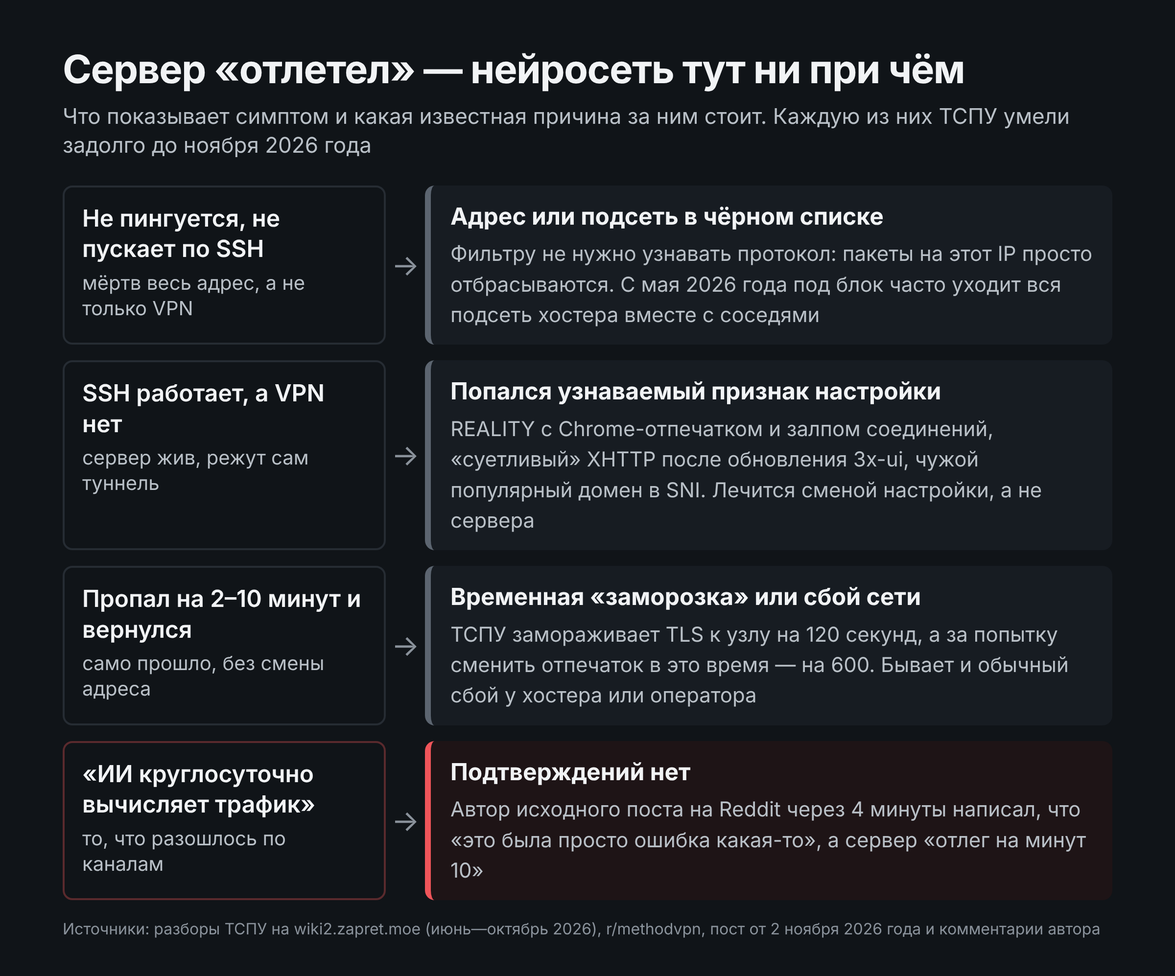
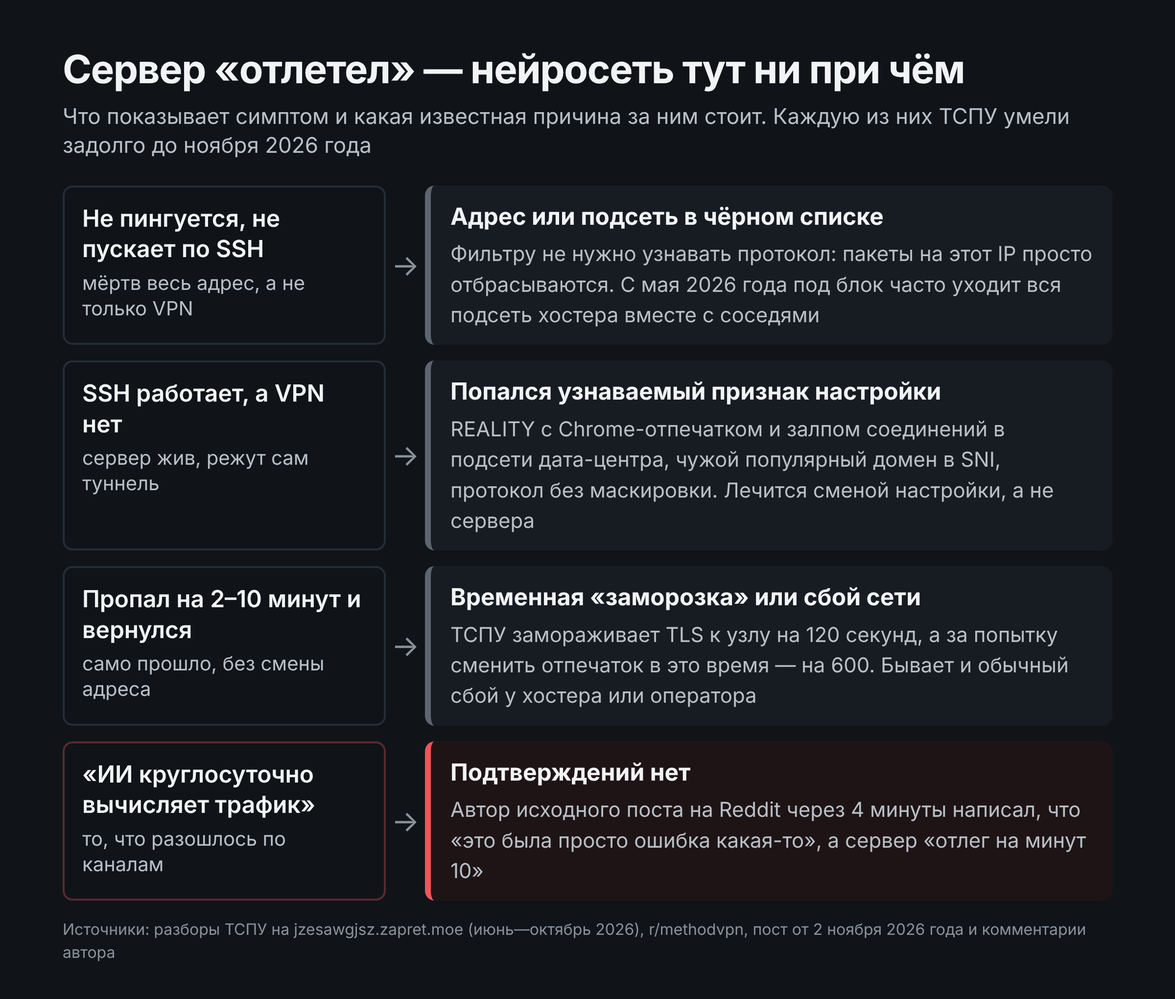
«Ловушка» 3x-ui со scMinPostsIntervalMs: проверка по коду, заметка переписана
DPI/tspu-3xui-scmininterval-trap.md переписана подробно. Сверка с исходниками
показала, что «30» и «1000000» — значения, которые Xray (с v1.8.24) и mihomo
подставляют сами, если строки нет; удаление строк трафик не меняет, а с REALITY
в режиме auto Xray включает stream-one, где пауза между POST не действует.
3x-ui 2.9.4 тоже писала эти значения, ветка 2.x уязвима к CVE-2026-55477;
исправление и закрытие уязвимости — в 3.3.1 от 12 июня 2026. Добавлены
хронология issue #5141, таблица прежних ошибок, две диаграммы.

Утверждение про «30 триггерит ТСПУ» поправлено в tspu-false-blocks-june-2026,
rkn-vpn-2030-roadmap, DPI.md, xray/xhttp.md и в статье о фейке про ИИ
(текст и диаграмма симптомов).

diff --git a/DPI/tspu-3xui-scmininterval-trap.md b/DPI/tspu-3xui-scmininterval-trap.md
@@ -8,80 +8,140 @@ tags:
   - 3x-ui
   - xhttp
   - vless
-  - howto
+  - фактчекинг
 aliases:
   - Ловушка 3x-ui scMinPostsIntervalMs
   - Почему после обновления 3x-ui всё легло
   - scMinPostsIntervalMs триггерит ТСПУ
+  - scMinPostsIntervalMs 30 что это
   - 3x-ui 3.x.x блокировка
-link: https://ebyebots.ru/blog/kak-tspu-roskomnadzora-lomaet-legitimnye-sajty-i-servery-v-iyune-2026-goda-tehnicheskij-razbor/
-description: "После обновления 3x-ui до 3.x.x отвалились VLESS/XHTTP-прокси: параметр scMinPostsIntervalMs: 30 триггерит ТСПУ. Как вырезать его или откатиться на 2.9.4."
+  - Откатывать ли 3x-ui на 2.9.4
+  - 3x-ui issue 5141
+description: "Правда ли, что «30» в scMinPostsIntervalMs выдаёт XHTTP-прокси ТСПУ? Сверка с кодом Xray и 3x-ui: это значение по умолчанию, удаление строки ничего не меняет."
+link: https://github.com/MHSanaei/3x-ui/issues/5141
 ---
 
 > [!mirror] Резервное зеркало
-> Актуальная версия этой страницы — на основной вики: [wiki2.zapret.moe/DPI/tspu-3xui-scmininterval-trap](https://wiki2.zapret.moe/DPI/tspu-3xui-scmininterval-trap)
+> Актуальная версия этой страницы — на основной вики: [jzesawgjsz.zapret.moe/DPI/tspu-3xui-scmininterval-trap](https://jzesawgjsz.zapret.moe/DPI/tspu-3xui-scmininterval-trap)
 
-# 🪤 Ловушка обновления 3x-ui: как `scMinPostsIntervalMs` триггерит ТСПУ
+# 🪤 «Ловушка» 3x-ui со scMinPostsIntervalMs: проверка по исходному коду Xray и панели
 
 > [!info] О чём заметка
-> Узкий, но коварный случай «Июньской блокировки 2026»: после обновления панели **3x-ui (веб-панель управления прокси-ядром Xray)** до ветки `3.x.x` у многих администраторов **массово отвалились соединения** — особенно на мобильных операторах. Причина не в самих серверах, а в том, что новая версия панели стала автоматически вшивать в конфиг Xray параметр `scMinPostsIntervalMs: 30`, который **сам по себе триггерит ТСПУ (Технические Средства Противодействия Угрозам)** — оборудование **DPI (Deep Packet Inspection, глубокий анализ пакетов)** Роскомнадзора. Здесь — что это за параметр, почему он попадает под фильтр и как починить. Общая картина блокировки (И-триггер из трёх условий) — в обзорной заметке [[DPI/tspu-false-blocks-june-2026|про «Июньскую блокировку 2026»]].
+> В июне 2026 года, на фоне [[DPI/tspu-false-blocks-june-2026|«Июньской блокировки»]], разошлась версия: панель 3x-ui после обновления до ветки 3.x стала вписывать в настройки прокси параметр `scMinPostsIntervalMs: 30`, и именно он выдаёт прокси фильтру Роскомнадзора на мобильных сетях. Здесь эта версия проверена по исходному коду ядра Xray, клиента mihomo и самой панели. Итог проверки: число 30 — это значение, которое Xray подставляет сам, когда строки нет, поэтому удаление строки трафик не меняет. Что из истории всё-таки правда и что делать владельцу сервера на 3x-ui, разобрано ниже.
 
-> [!warning] Статус данных
-> Связь параметра `scMinPostsIntervalMs: 30` со срабатыванием ТСПУ — это **эмпирическое наблюдение** из разбора eByeBots (7 июня 2026): «опытным путём доказано, что именно это ограничение мгновенно триггерит алгоритмы ТСПУ на мобильных сетях». Это **не официальная документация** и не подтверждённая разработчиками Xray причинно-следственная связь; объяснение «почему» (через поведенческий признак частоты) — реконструкция, а не утверждение eByeBots. Параметры фильтра различаются по операторам и регионам и со временем меняются. Перед откатом версии сделайте резервную копию конфигурации.
+> [!warning] Заметка переписана 2 ноября 2026 года
+> Прежняя версия этой страницы пересказывала июньскую версию как установленный факт: «`scMinPostsIntervalMs: 30` сам по себе триггерит ТСПУ», «вырежьте строки из конфига», «если не помогло — откатитесь на 2.9.4». Сверка с кодом показала, что эти советы не работают так, как описано, а откат на 2.9.4 ещё и оставляет панель с незакрытой уязвимостью. Ниже — исправленный разбор; ссылки на исходный код ведут на конкретные строки, их можно проверить самостоятельно.
+
+![[tspu-3xui-defaults-same-as-xray.png]]
 
 ## TL;DR
 
-- **Симптом:** после обновления **3x-ui до ветки `3.x.x`** прокси (например, на протоколе **VLESS** — лёгком прокси поверх Xray) на транспорте **XHTTP (маскировка трафика под обычный HTTP, ранее назывался SplitHTTP)** начали массово блокироваться, особенно на мобильном интернете.
-- **Причина:** панель стала автоматически добавлять в конфиг ядра Xray два параметра — `"scMaxEachPostBytes": "1000000"` и **`"scMinPostsIntervalMs": "30"`**. Именно `scMinPostsIntervalMs: 30` — минимальный интервал между **POST-запросами (HTTP-метод, которым клиент отправляет данные на сервер)** — **разрешает** слать их уже через 30 мс после предыдущего, то есть очень часто при активной передаче. ТСПУ ловит эту «суетливость» как признак туннеля.
-- **Почему это триггер:** частые короткие POST делают поведение туннеля «машинным» — это родственно поведенческому признаку **«частоты»**, на котором стоит третье условие И-триггера ТСПУ. Строго оно считается по числу новых TLS-сессий к одному адресу (см. обзорную заметку), но «суетливый» транспорт питает тот же сигнал.
-- **Фикс:** вручную **вырезать** `scMaxEachPostBytes` и `scMinPostsIntervalMs` из конфига — на сервере (вкладка «Расширенный шаблон») и из клиентских ссылок (блок `Extra`). Если не помогло — **откатить панель до стабильной `2.9.4`**.
+- **Что утверждалось.** С 3x-ui ветки 3.x в настройках XHTTP-подключений появились `"scMaxEachPostBytes": "1000000"` и `"scMinPostsIntervalMs": "30"`, и ТСПУ (технические средства противодействия угрозам, оборудование Роскомнадзора у операторов) якобы начали по ним блокировать прокси на мобильном интернете.
+- **Что показывает код.** Ровно эти числа — 30 мс и 1 000 000 байт — ядро Xray подставляет само, если в конфиге строки нет, и так с 2024 года. У клиента mihomo те же умолчания. Строка «30» в конфиге и её отсутствие дают одинаковый трафик, а ТСПУ видят трафик, а не текст настроек.
+- **С REALITY параметр вообще не работает.** В режиме `auto` с REALITY Xray выбирает режим `stream-one`, где паузы между POST-запросами нет вовсе.
+- **Откат на 2.9.4 — плохой совет.** 2.9.4 тоже писала эти значения (только не в ссылки), а версии ветки 2.x, по данным GitLab Advisory Database, остаются уязвимыми к CVE-2026-55477. Исправление вышло в 3x-ui 3.3.1 12 июня 2026 года.
+- **Что делать.** Обновить панель до 3.3.1 или новее и искать причину блокировки в известных признаках: адрес или подсеть сервера, TLS-отпечаток клиента, залп соединений. Удалять строки со значением по умолчанию бессмысленно, но и вреда в этом нет.
 
-## Что такое 3x-ui и XHTTP
+## Что такое 3x-ui, Xray и XHTTP
 
-- **3x-ui** — популярная веб-панель для управления сервером **Xray (ядро прокси, на котором работают VLESS, VMess, Trojan и др.)**. Через неё админ заводит пользователей, генерирует ссылки-подключения и правит конфиг, не залезая в JSON руками.
-- **XHTTP** (ранее SplitHTTP) — один из **транспортов Xray**: он маскирует трафик прокси под обычный HTTP-обмен, разбивая поток на серию HTTP-запросов (в том числе **POST** — метод отправки данных от клиента к серверу). Маскировка под HTTP помогает против **DPI** — но только пока поведение запросов выглядит «человеческим».
+Xray — программа-ядро прокси-сервера: она принимает зашифрованные подключения клиентов и выпускает их трафик в интернет. Подключение описывается протоколом (чаще всего VLESS) и транспортом — способом, которым байты протокола упаковываются для передачи по сети. 3x-ui — веб-панель поверх Xray: в браузере заводишь подключения и пользователей, а панель пишет за тебя JSON-конфиг ядра и выдаёт пользователям ссылки вида `vless://…` и подписки, то есть адреса, по которым клиент сам забирает актуальный список подключений.
 
-> [!example] На пальцах
-> Представь курьера, который носит письма (данные) через проходную (ТСПУ), маскируясь под обычного посетителя. Пока он ходит **спокойно**, охрана не реагирует. Но если разрешить ему слать письма **уже через 30 миллисекунд** после предыдущего — при потоке данных он начинает мелькать в проходной по 30+ раз в секунду. Никакой обычный посетитель так не делает; охрана опознаёт «слишком частый» паттерн и блокирует. `scMinPostsIntervalMs: 30` — это и есть снятый тормоз, который позволяет курьеру бегать как можно чаще и выдаёт маскировку.
+XHTTP — один из транспортов Xray, подробно разобранный в заметке [[xray/xhttp|о XHTTP]]. Он упаковывает трафик прокси в обычные HTTP-запросы, чтобы снаружи соединение выглядело как работа сайта и могло пройти даже через CDN. У XHTTP три режима. В режиме `packet-up` клиент отправляет свои данные серией отдельных POST-запросов (POST — HTTP-метод, которым браузер отправляет данные на сервер, например форму), а ответ получает одним длинным GET. В `stream-up` отправка идёт одним длинным POST, в `stream-one` и отправка, и приём идут внутри одного запроса.
 
-## Почему именно `scMinPostsIntervalMs: 30` опасен
+Проще говоря: 3x-ui — пульт управления, Xray — сам прокси, а XHTTP — способ замаскировать его трафик под веб-запросы. Параметры из этой истории касаются только одного режима XHTTP — `packet-up`, где данные клиента разрезаются на много POST-запросов.
 
-`scMinPostsIntervalMs` задаёт **минимальный интервал (в миллисекундах) между POST-запросами**, которыми клиент отправляет данные на сервер в режиме XHTTP. Это **нижний порог** (троттл), а не форсированный темп: значение `30` не *заставляет* слать POST каждые 30 мс, но **разрешает** делать это уже через 30 мс после предыдущего — то есть до ~33 запросов в секунду на пике отдачи. При активной передаче клиент упирается в этот разрешённый максимум, и поведение становится «суетливым».
+## Что делают scMaxEachPostBytes и scMinPostsIntervalMs
 
-Для ТСПУ это выглядит как **поток частых однотипных запросов к одному адресу** — поведение, по которому фильтр отличает машинный туннель от обычного браузинга. В терминах И-триггера «Июньской блокировки» это близко к **третьему условию (частота)**. Важная оговорка: строго третье условие модели измеряется по числу **параллельных TLS-сессий** к одному имени хоста за окно времени, а POST-запросы XHTTP идут **внутри** уже установленных сессий — поэтому «частые POST → третье условие» это **реконструкция механизма**, а не дословное утверждение источника. Эталон eByeBots даёт лишь эмпирический факт: с `scMinPostsIntervalMs: 30` ТСПУ срабатывает.
+В режиме `packet-up` клиент Xray складывает исходящие данные в буфер и время от времени отправляет накопившееся одним POST-запросом. Два параметра управляют этим ритмом:
 
-Парный параметр `scMaxEachPostBytes: "1000000"` задаёт **максимальный** размер одного POST (1 МБ) и вшивается панелью заодно; триггерной роли эталон ему **не приписывает** — «опытным путём доказано» срабатывание именно от `scMinPostsIntervalMs: 30`.
+- `scMaxEachPostBytes` — сколько байт помещается в один POST. Если данных больше, они режутся на несколько запросов.
+- `scMinPostsIntervalMs` — минимальная пауза между двумя POST-запросами одного подключения, в миллисекундах. Если с прошлого запроса прошло меньше, клиент ждёт.
 
-> [!note] Почему «на мобильных»
-> По наблюдениям eByeBots эффект сильнее всего на сотовых операторах. Это согласуется с тем, что параметры ТСПУ «плавающие» и зависят от оператора и региона: на одних сетях порог частоты жёстче, на других — мягче. Поэтому один и тот же конфиг может работать на домашнем провайдере и падать на мобильном.
+Как это выглядит в коде, видно в [цикле отправки клиента Xray](https://github.com/XTLS/Xray-core/blob/7c8dbcb4bbec7f80d16070069e0b2f7bf3aca62c/transport/internet/splithttp/dialer.go#L506-L508): перед каждым POST клиент спит «пауза минус время с прошлой отправки». Пауза — нижняя граница, а не метроном: при значении 30 клиент не обязан слать запрос каждые 30 мс, он лишь не шлёт их чаще. При большой отдаче, например при загрузке файла, это до 33 запросов в секунду, а при просмотре сайтов — гораздо реже, потому что отправлять нечего.
 
-## Как починить
+Самое важное — что происходит, если строки в конфиге нет. Это решают функции [`GetNormalizedScMaxEachPostBytes` и `GetNormalizedScMinPostsIntervalMs`](https://github.com/XTLS/Xray-core/blob/7c8dbcb4bbec7f80d16070069e0b2f7bf3aca62c/transport/internet/splithttp/config.go#L140-L161): если параметр не задан, Xray берёт 1 000 000 байт и 30 мс. Те же значения стоят в [первой версии этого транспорта, v1.8.24 2024 года](https://github.com/XTLS/Xray-core/blob/v1.8.24/transport/internet/splithttp/config.go), когда он ещё назывался SplitHTTP, и они не менялись до ноября 2026 года. Эти же умолчания давно записаны и в таблице параметров в заметке [[xray/xhttp|о XHTTP]].
+
+Проще говоря: «30» в конфиге означает «делай как обычно». Строка со значением по умолчанию и пустое место на её месте для Xray одно и то же.
+
+## Откуда взялась история
+
+![[tspu-3xui-timeline-2026.png]]
+
+6 мая 2026 года вышла 3x-ui 2.9.4, последняя версия ветки 2.x. 10 мая вышла 3.0.0 с переписанным интерфейсом, а с 3.2.0 от 28 мая подписки начали передавать клиентам `scMinPostsIntervalMs` в блоке `extra` ссылки — специальном поле, где панель сообщает клиенту дополнительные настройки транспорта. С этого момента у многих пользователей 3.x в ссылках появились строки `"scMaxEachPostBytes": "1000000"` и `"scMinPostsIntervalMs": "30"`.
+
+4–6 июня началась «Июньская блокировка»: ТСПУ стали замораживать TLS-соединения к целым подсетям дата-центров, и у части пользователей перестали открываться даже обычные сайты на российских хостингах. Механизм разобран в заметке [[DPI/tspu-false-blocks-june-2026|о ложных блокировках июня]]; 3x-ui к нему отношения не имеет, под удар попали и сайты без всякого прокси.
+
+На этом фоне блог eByeBots в разборе «Июньской блокировки» связал блокировки на мобильных сетях с «30» в конфиге 3x-ui и написал, что «опытным путём доказано», будто именно это ограничение мгновенно включает ТСПУ. Проверить формулировку сейчас нельзя: на 2 ноября 2026 года [страница блога](https://ebyebots.ru/blog/kak-tspu-roskomnadzora-lomaet-legitimnye-sajty-i-servery-v-iyune-2026-goda-tehnicheskij-razbor/) не открывается, домен не отвечает, а [копия в веб-архиве от 8 июня](https://web.archive.org/web/20260608143526/https://ebyebots.ru/blog/kak-tspu-roskomnadzora-lomaet-legitimnye-sajty-i-servery-v-iyune-2026-goda-tehnicheskij-razbor/) была недоступна; цитата приведена по прежней версии этой заметки.
+
+9 июня пользователь ttrroyy открыл в репозитории панели [issue #5141 «scMinPostsIntervalMs: 30 is automatically added in 3.x.x and triggers TSPU blocking on mobile networks in Russia»](https://github.com/MHSanaei/3x-ui/issues/5141). Текст совпадает с советами из блога: удалить обе строки из расширенного шаблона Xray и из блока `extra`. Замеров, записей трафика или сравнения «со строкой» и «без строки» в issue нет — только утверждение, что значение «быстро обнаруживается».
+
+11 июня автор панели MHSanaei закрыл issue. В ответе он прямо подтвердил, что это собственные значения Xray по умолчанию, и тут же написал, что «литерал `scMinPostsIntervalMs=30` — это и есть устойчивый отпечаток, по которому срабатывает ТСПУ». [Исправление](https://github.com/MHSanaei/3x-ui/commit/60da6bed15eef3b911bb52f5e9c01604cf7ba36c) убрало умолчания из новых подключений и из ссылок для старых и вошло в [3x-ui 3.3.1 от 12 июня 2026 года](https://github.com/MHSanaei/3x-ui/releases/tag/v3.3.1). Автор панели убрал лишние строки, не проверяя механизм, — разумный ход для разработчика: строки и правда были избыточны. Но исправление панели не доказывает, что ТСПУ на эти строки реагировали.
+
+## Проверка: что видит фильтр
+
+ТСПУ стоят у оператора связи и видят только сетевой трафик: адреса, размеры и время пакетов, открытую часть TLS-рукопожатия. Конфиг сервера и ссылку на клиенте они не видят. Значит, строка в конфиге может выдать прокси только одним способом — если она меняет то, что клиент отправляет в сеть.
+
+Проверка этого по коду даёт три результата.
+
+**Xray.** Строка `"30"` и её отсутствие приводят к одной и той же паузе в 30 мс, а `"1000000"` и отсутствие — к одному и тому же размеру POST. Это видно по функциям нормализации, приведённым выше. Клиенты на ядре Xray (v2rayN, v2rayNG, Happ и другие) отправляют одинаковый трафик в обоих случаях.
+
+**mihomo.** Это ядро Clash Meta, на нём работает часть клиентов для Android и Windows. В его [реализации XHTTP](https://github.com/MetaCubeX/mihomo/blob/69c16319b12d10ec1ed05eefca3a482357f5ffbb/transport/xhttp/config.go#L215-L235) умолчания те же — «1000000» и «30». Вдобавок [конвертер ссылок mihomo](https://github.com/MetaCubeX/mihomo/blob/69c16319b12d10ec1ed05eefca3a482357f5ffbb/common/convert/v.go#L277-L283) читает эти поля из `extra` только как числа, а 3x-ui писала их строками — то есть mihomo их просто пропускал и брал те же 30 мс.
+
+**Режим с REALITY.** REALITY — режим маскировки, при котором сервер выдаёт себя за чужой настоящий сайт ([[xray/reality|разбор REALITY]]). Если в XHTTP стоит режим `auto` и включён REALITY, Xray [выбирает `stream-one`](https://github.com/XTLS/Xray-core/blob/7c8dbcb4bbec7f80d16070069e0b2f7bf3aca62c/transport/internet/splithttp/dialer.go#L333-L341), где отправка идёт одним потоком и цикл с паузой между POST не запускается вовсе. Для этой популярной связки параметр не действует ни со строкой, ни без неё.
+
+Проще говоря: удалив строки, пользователь получал ровно тот же трафик, что и до удаления. Если после этого прокси «оживал», причина была в чём-то другом.
+
+> [!note] Чем ещё можно объяснить «помогло»
+> Июньские блокировки били по подсетям и шли волнами, так что сервер мог отвиснуть сам. Чтобы применить совет, нужно было перевыпустить ссылки, переподключить клиентов, а кто-то заодно сменил адрес, режим или откатил панель целиком — изменилось сразу несколько вещей. Есть и теоретический путь, при котором текст ссылки виден снаружи: подписка, отдаваемая по обычному HTTP без шифрования. Но тогда фильтр видит всю ссылку с адресом сервера целиком, и «30» в ней ничего не добавляет. Ни одно из этих объяснений в issue и в блоге не проверялось.
+
+## Что было неверно в прежней версии заметки
+
+| Прежнее утверждение | Что на самом деле |
+|---|---|
+| Панель «стала автоматически вшивать» параметр, которого раньше не было | Значения 30 и 1 000 000 Xray использует сам с 2024 года; 3x-ui 2.9.4 тоже писала их в конфиги, 3.x лишь начала передавать их в ссылках |
+| `scMinPostsIntervalMs: 30` «разрешает» слать POST чаще и делает трафик «суетливым» | Без строки клиент шлёт POST с той же частотой — 30 мс это и есть поведение по умолчанию |
+| Нужно вырезать строки на сервере и в блоке `extra` | Удаление строки со значением по умолчанию не меняет трафик; для сервера это поле вообще клиентское |
+| Если не помогло — откатиться на 2.9.4, «где параметры не вшиваются» | 2.9.4 писала [«1000000» во входящие подключения](https://github.com/MHSanaei/3x-ui/blob/v2.9.4/web/assets/js/model/inbound.js#L481) и [«30» в исходящие](https://github.com/MHSanaei/3x-ui/blob/v2.9.4/web/assets/js/model/outbound.js#L359); ветка 2.x по данным GitLab уязвима к CVE-2026-55477 |
+| Механизм — третье условие «Июньской блокировки», частота | Третье условие считает новые TLS-сессии к одному имени, а POST-запросы XHTTP идут внутри уже открытых соединений; связь не подтверждена |
+
+## Что делать владельцу сервера на 3x-ui
 
 > [!tip] Главное
-> Нужно убрать из конфигурации навязанный обновлением «слишком частый» интервал POST — тогда поведение XHTTP-транспорта перестаёт пробивать порог частоты.
+> Не трогай числа по умолчанию — ищи настоящий признак, по которому режут сервер. Панель держи свежей.
 
-- [ ] **Сделать резервную копию** текущего конфига Xray и клиентских ссылок.
-- [ ] **На сервере** открыть в 3x-ui вкладку **«Расширенный шаблон»** (Advanced Template) и **удалить строки** (это фрагмент внутри настроек XHTTP-транспорта, а не самостоятельный JSON):
-  ```text
-  "scMaxEachPostBytes": "1000000",
-  "scMinPostsIntervalMs": "30"
-  ```
-- [ ] **В клиентских ссылках** убрать эти же параметры из блока `Extra` (иначе клиент продолжит слать частые POST, даже если сервер их не требует).
-- [ ] **Перевыпустить/обновить ссылки** у пользователей и переподключиться, проверить доступность на мобильном операторе (где симптом проявлялся сильнее всего).
-- [ ] **Если не помогло — откатить (даунгрейд) панель 3x-ui до стабильной версии `2.9.4`**, в которой эти параметры не вшиваются автоматически.
-
-> [!warning] Оговорка
-> Это лечит **поведенческий** признак (частоту POST-запросов XHTTP). Если ваш прокси режется по **другому** условию И-триггера — по подсети сервера или по TLS-отпечатку (например, `fingerprint: chrome` в REALITY) — правка `scMinPostsIntervalMs` не поможет, нужны меры из соответствующих заметок. Параметры фильтра меняются: значения, безопасные сегодня, могут попасть под правило завтра.
+- [ ] **Обнови панель до 3.3.1 или новее.** В этой версии и убраны лишние строки, и закрыта [уязвимость CVE-2026-55477](https://advisories.gitlab.com/golang/github.com/mhsanaei/3x-ui/v2/CVE-2026-55477/), через которую администратор панели мог записать произвольный файл на сервер. Откат на 2.9.4 оставляет эту дыру открытой.
+- [ ] **Определи, что именно заблокировано.** Если сервер не пингуется и не пускает по SSH — заблокирован адрес или подсеть, и никакая настройка XHTTP тут не поможет. Если SSH работает, а прокси нет — фильтр узнал признак подключения. Порядок такой проверки — в заметке [[DPI/rkn-ai-vpn-ban-fake-november-2026|о фейке «РКН подключил ИИ»]], инструменты — в [[DPI/tspu-inspectors-checkers-2026|инспекторах ТСПУ]].
+- [ ] **Для VLESS+REALITY проверь три известных условия** заморозки: подсеть дата-центра, отпечаток Chrome или Safari в рукопожатии и залп новых соединений к одному имени. Разбор и способы нарушить любое из них — в заметке [[VLESS/dpi-tls-june-2026|о «заморозке» VLESS+REALITY]].
+- [ ] **Отдавай подписки по HTTPS.** Это защищает не от «30», а от того, что ссылка с адресом сервера целиком читается по дороге.
+- [ ] **Если всё же хочешь изменить ритм POST в `packet-up`,** меняй значение, а не удаляй строку: Xray принимает диапазон, например `"scMinPostsIntervalMs": "10-50"`, и тогда паузы выбираются случайно. Подтверждений, что ТСПУ различают ритм POST и что диапазон помогает, нет — это лишь единственный способ действительно изменить то, что видно в сети.
 
 ## Источники
 
-| Источник | Дата | Что отсюда взято |
-|---|---|---|
-| [eByeBots — технический разбор «Июньской блокировки 2026»](https://ebyebots.ru/blog/kak-tspu-roskomnadzora-lomaet-legitimnye-sajty-i-servery-v-iyune-2026-goda-tehnicheskij-razbor/) | 7 июня 2026 | Сам факт ловушки в 3x-ui `3.x.x`, параметры `"scMaxEachPostBytes": "1000000"` и `"scMinPostsIntervalMs": "30"`, эффект на мобильных сетях, фикс (вырезать строки из «Расширенного шаблона» и блока `Extra`, откат до `2.9.4`). |
+- [3x-ui, issue #5141 от 9 июня 2026 года — «scMinPostsIntervalMs: 30 is automatically added in 3.x.x and triggers TSPU blocking»](https://github.com/MHSanaei/3x-ui/issues/5141)
+- [3x-ui, коммит 60da6bed от 12 июня 2026 года — убраны значения по умолчанию из конфигов и ссылок](https://github.com/MHSanaei/3x-ui/commit/60da6bed15eef3b911bb52f5e9c01604cf7ba36c)
+- [3x-ui, релиз v3.3.1 от 12 июня 2026 года](https://github.com/MHSanaei/3x-ui/releases/tag/v3.3.1)
+- [3x-ui v2.9.4 — значение «30» для исходящих XHTTP-подключений в outbound.js](https://github.com/MHSanaei/3x-ui/blob/v2.9.4/web/assets/js/model/outbound.js#L359)
+- [3x-ui v2.9.4 — значение «1000000» для входящих XHTTP-подключений в inbound.js](https://github.com/MHSanaei/3x-ui/blob/v2.9.4/web/assets/js/model/inbound.js#L481)
+- [Xray-core, config.go — значения по умолчанию 1 000 000 байт и 30 мс](https://github.com/XTLS/Xray-core/blob/7c8dbcb4bbec7f80d16070069e0b2f7bf3aca62c/transport/internet/splithttp/config.go#L140-L161)
+- [Xray-core v1.8.24, config.go — те же умолчания в 2024 году](https://github.com/XTLS/Xray-core/blob/v1.8.24/transport/internet/splithttp/config.go)
+- [Xray-core, dialer.go — пауза перед каждым POST в режиме packet-up](https://github.com/XTLS/Xray-core/blob/7c8dbcb4bbec7f80d16070069e0b2f7bf3aca62c/transport/internet/splithttp/dialer.go#L506-L508)
+- [Xray-core, dialer.go — выбор режима stream-one для REALITY в режиме auto](https://github.com/XTLS/Xray-core/blob/7c8dbcb4bbec7f80d16070069e0b2f7bf3aca62c/transport/internet/splithttp/dialer.go#L333-L341)
+- [mihomo, transport/xhttp/config.go — те же умолчания «1000000» и «30»](https://github.com/MetaCubeX/mihomo/blob/69c16319b12d10ec1ed05eefca3a482357f5ffbb/transport/xhttp/config.go#L215-L235)
+- [mihomo, common/convert/v.go — поля extra читаются только как числа](https://github.com/MetaCubeX/mihomo/blob/69c16319b12d10ec1ed05eefca3a482357f5ffbb/common/convert/v.go#L277-L283)
+- [GitLab Advisory Database — CVE-2026-55477 в 3x-ui](https://advisories.gitlab.com/golang/github.com/mhsanaei/3x-ui/v2/CVE-2026-55477/)
+- [eByeBots — разбор «Июньской блокировки 2026» (на 2 ноября 2026 года не открывается)](https://ebyebots.ru/blog/kak-tspu-roskomnadzora-lomaet-legitimnye-sajty-i-servery-v-iyune-2026-goda-tehnicheskij-razbor/)
+- [Веб-архив, копия разбора eByeBots от 8 июня 2026 года](https://web.archive.org/web/20260608143526/https://ebyebots.ru/blog/kak-tspu-roskomnadzora-lomaet-legitimnye-sajty-i-servery-v-iyune-2026-goda-tehnicheskij-razbor/)
 
 ## 📚 См. также
 
-- [[DPI/tspu-false-blocks-june-2026|Как ТСПУ ломает легитимные сайты: «Июньская блокировка 2026»]] — обзор И-триггера из трёх условий; этот случай — пробитие **третьего** условия (частота) кривым параметром транспорта.
-- [[VLESS/dpi-tls-june-2026|Как DPI «замораживает» VLESS+REALITY: схема июня 2026]] — почему DPI смотрит на поведение соединения, а не на содержимое; выбор транспорта и фингерпринта.
-- [[DPI/tspu-http2-tls12-fix|HTTP/2 Only + TLS 1.2 против ТСПУ]] — тот же поведенческий признак «частоты», но со стороны обычного сайта.
-- [[VPS/3X-UI API|3X-UI API]] — управление 3x-ui программно.
+- [[xray/xhttp|XHTTP]] — режимы packet-up, stream-up и stream-one и таблица параметров с умолчаниями
+- [[DPI/tspu-false-blocks-june-2026|Как ТСПУ ломает легитимные сайты: «Июньская блокировка 2026»]] — что на самом деле происходило в начале июня
+- [[VLESS/dpi-tls-june-2026|Как DPI «замораживает» VLESS+REALITY]] — три условия, по которым режут REALITY
+- [[DPI/rkn-ai-vpn-ban-fake-november-2026|Фейк «РКН подключил ИИ»]] — ещё одна история, где один пост превратился в «установленный факт», и как по симптому понять, что убило сервер
+- [[DPI/tspu-http2-tls12-fix|HTTP/2 Only + TLS 1.2 против ТСПУ]] — как сайту не попасть под условие частоты
+- [[VPS/3X-UI API|3X-UI API]] — управление 3x-ui программно
+
+---
+
+> [!quote] 🤖 Эти статьи открыты — можно обучать на них ИИ
+> При желании вы можете натренировать ИИ на наших статьях. Исходное форматирование доступно в Forgejo: [исходник этой заметки](https://cwdnvtsqdc.zapret.moe/zapretdiscordyoutube/todo/src/branch/main/DPI/tspu-3xui-scmininterval-trap.md) · [скачать весь репозиторий одним zip-архивом](https://cwdnvtsqdc.zapret.moe/zapretdiscordyoutube/todo/archive/main.zip).

diff --git a/DPI/rkn-ai-vpn-ban-fake-november-2026.md b/DPI/rkn-ai-vpn-ban-fake-november-2026.md
@@ -82,7 +82,7 @@ link: https://www.reddit.com/r/methodvpn/comments/1xli9de/
 2. Новую схему «vless + tsp + tls» на собственном домене с браузерной мини-игрой автор собрал через 3x-ui, и она «отлетела через час». «tsp» здесь, судя по всему, опечатка вместо TCP — обычного транспорта без маскировки под чужой сайт.
 3. Объяснение — догадка в форме выбора: «Тут либо тспу стало умнее, всвязи с нейронкой, либо выделили еще 100 миллиардов налоговых денег на новые способы прокачать фильтрацию трафика и в карман закинуть себе половину». Тут же автор оговаривается: «грешить не хочу, может только у меня так».
 
-3x-ui — веб-панель, которая ставит прокси-сервер Xray одной командой и даёт настраивать его мышкой в браузере. Это удобно, но всё, что панель подставляет в конфигурацию по умолчанию, у её пользователей совпадает, а совпадающие настройки фильтр и учится узнавать. Один такой случай в vault уже разобран: после обновления до ветки 3.x панель вписывала в конфиг Xray параметр `scMinPostsIntervalMs: 30`, и транспорт XHTTP начинал вести себя так «суетливо», что ТСПУ его ловили ([[DPI/tspu-3xui-scmininterval-trap|ловушка обновления 3x-ui]]). У самой панели тоже были дыры: [уязвимость CVE-2025-29331](https://osv.dev/vulnerability/CVE-2025-29331) позволяла подменить скрипт обновления и выполнить чужой код в версиях до 2.5.3, а [CVE-2026-55477](https://advisories.gitlab.com/golang/github.com/mhsanaei/3x-ui/v2/CVE-2026-55477/) давала администратору панели записать произвольный файл на сервер вплоть до 3.3.1. Справедливости ради, [нынешний установщик](https://raw.githubusercontent.com/MHSanaei/3x-ui/main/install.sh) сам выбирает случайный порт, путь к панели, логин и пароль, а знаменитые `2053` и `admin/admin` остались настройками Docker-сборки и старых инструкций. В тех же комментариях пользователь [пишет, что десяток серверов на 3x-ui у него живут больше двух лет](https://www.reddit.com/r/AmneziaVPN/comments/1xjldzv/comment/19rwc942qfo02/). Панель не приговор, но и не доказательство, что «ТСПУ поумнели»: при сбое сначала проверяют свою конфигурацию.
+3x-ui — веб-панель, которая ставит прокси-сервер Xray одной командой и даёт настраивать его мышкой в браузере. Это удобно, но всё, что панель подставляет по умолчанию, у её пользователей совпадает, а совпадающие настройки фильтр и учится узнавать. Сама панель при этом не волшебный «маячок»: летом 2026 года ходила версия, что 3x-ui 3.x выдаёт прокси строкой `scMinPostsIntervalMs: 30`, но проверка по коду показала, что это значение Xray подставляет и без панели ([[DPI/tspu-3xui-scmininterval-trap|разбор «ловушки» 3x-ui]]). У самой панели тоже были дыры: [уязвимость CVE-2025-29331](https://osv.dev/vulnerability/CVE-2025-29331) позволяла подменить скрипт обновления и выполнить чужой код в версиях до 2.5.3, а [CVE-2026-55477](https://advisories.gitlab.com/golang/github.com/mhsanaei/3x-ui/v2/CVE-2026-55477/) давала администратору панели записать произвольный файл на сервер в версиях до 3.3.1. Справедливости ради, [нынешний установщик](https://raw.githubusercontent.com/MHSanaei/3x-ui/main/install.sh) сам выбирает случайный порт, путь к панели, логин и пароль, а знаменитые `2053` и `admin/admin` остались настройками Docker-сборки и старых инструкций. В тех же комментариях пользователь [пишет, что десяток серверов на 3x-ui у него живут больше двух лет](https://www.reddit.com/r/AmneziaVPN/comments/1xjldzv/comment/19rwc942qfo02/). Панель не приговор, но и не доказательство, что «ТСПУ поумнели»: при сбое сначала проверяют свою конфигурацию.
 
 Проще говоря: автор описал одну неудачную ночь с двумя серверами, сам предложил два объяснения и сам же сомневался. Для новости в таком посте нет ни масштаба, ни проверки, ни эксперта.
 
@@ -136,7 +136,7 @@ link: https://www.reddit.com/r/methodvpn/comments/1xli9de/
 ![[rkn-ai-fake-diagnose.png]]
 
 - [ ] **Не пингуется и не пускает по SSH** — адрес или подсеть в чёрном списке. Помогает только новый адрес, лучше у другого хостера или в другой подсети; IPv6 иногда ещё не заблокирован.
-- [ ] **SSH работает, VPN нет** — фильтр узнал признак настройки. Для VLESS с REALITY это сочетание трёх условий, разобранное в заметке [[VLESS/dpi-tls-june-2026|о «заморозке» VLESS+REALITY]]: подозрительная подсеть дата-центра, отпечаток Chrome или Safari и залп соединений. Для 3x-ui сначала проверь [[DPI/tspu-3xui-scmininterval-trap|параметры XHTTP после обновления]]. Популярный чужой домен в SNI тоже может выдать сервер: в той же ветке пользователь [починил REALITY, сменив sni=yahoo на случайный домен из той же подсети](https://www.reddit.com/r/methodvpn/comments/1xli9de/comment/19s0m7p9cjaxt/).
+- [ ] **SSH работает, VPN нет** — фильтр узнал признак настройки. Для VLESS с REALITY это сочетание трёх условий, разобранное в заметке [[VLESS/dpi-tls-june-2026|о «заморозке» VLESS+REALITY]]: подозрительная подсеть дата-центра, отпечаток Chrome или Safari и залп соединений. Панель 3x-ui держи не ниже 3.3.1, а строку `scMinPostsIntervalMs` не трогай: [[DPI/tspu-3xui-scmininterval-trap|«30» — значение по умолчанию]], трафик от неё не меняется. Популярный чужой домен в SNI тоже может выдать сервер: в той же ветке пользователь [починил REALITY, сменив sni=yahoo на случайный домен из той же подсети](https://www.reddit.com/r/methodvpn/comments/1xli9de/comment/19s0m7p9cjaxt/).
 - [ ] **Пропал на 2–10 минут и вернулся** — временная «заморозка» TLS-соединений к узлу (по данным реверс-инжиниринга, ТСПУ держат её 120 секунд, а при попытке сменить отпечаток посреди заморозки — 600) или обычный сбой у хостера и оператора. Именно такой случай был у автора исходного поста.
 
 Что именно оператор делает с соединениями, можно проверить снаружи инструментами из заметки [[DPI/tspu-inspectors-checkers-2026|о чекерах ТСПУ]].
@@ -191,7 +191,7 @@ link: https://www.reddit.com/r/methodvpn/comments/1xli9de/
 
 - [[DPI/rkn-tan-ne-strashnaya-oktyabr-2026|РКН-тян не такая страшная, как кажется]] — что фильтр реально умеет на октябрь 2026 года и где пугалки преувеличены
 - [[VLESS/dpi-tls-june-2026|«Заморозка» VLESS+REALITY]] — три условия, при которых ТСПУ режут REALITY
-- [[DPI/tspu-3xui-scmininterval-trap|Ловушка обновления 3x-ui]] — параметр XHTTP, который сам выдаёт туннель
+- [[DPI/tspu-3xui-scmininterval-trap|«Ловушка» 3x-ui со scMinPostsIntervalMs]] — как июньская версия про «30» в конфиге не прошла проверку кодом
 - [[DPI/subnet-whitelist-blocking-2026|Блок подсетей по белому списку]] — почему страдают соседи по хостингу
 - [[DPI/tspu-inspectors-checkers-2026|Инспекторы ТСПУ]] — чем проверить, что оператор делает с соединениями
 - [[DPI/rkn-vpn-2030-roadmap|Курс на 2030]] — официальные планы по VPN и фильтрации трафика

diff --git a/DPI/tspu-false-blocks-june-2026.md b/DPI/tspu-false-blocks-june-2026.md
@@ -41,7 +41,7 @@ description: "Почему в июне 2026 легли сайты на Beget, Ti
   3. **Поведение** — больше **3 параллельных TLS-сессий** к одному **SNI (Server Name Indication — имя хоста в открытом виде)** за **60 секунд** с задержкой между ними **<20–50 мс**.
 - **Наказание:** заморозка всех TLS-соединений к узлу на **120 секунд**. **Двойная ловушка:** если в момент заморозки попытаться сменить отпечаток (даже на «чистый» и разрешённый) — штраф **600 секунд** (TCP при этом проходит, а TLS — нет, что сбивает админов с толку).
 - **Почему бьёт по обычным сайтам:** сайт на хостинге-ДЦ (условие 1) + пользователь в Chrome (условие 2) + браузер по **HTTP/1.1** держит пул соединений на каждый хост, что на тяжёлой странице суммарно даёт десятки параллельных TLS-сессий (условие 3). Все три совпали невольно — и легитимный трафик заморожен.
-- **Лечится нарушением хотя бы одного условия:** сменить браузер/отпечаток на **Firefox** (условие 2); сократить число TLS-сессий — **HTTP/2** на сервере (условие 3); увести сайт на IP вне «грязной» подсети (условие 1). Плюс отключить QUIC, проверить настройки панели 3x-ui.
+- **Лечится нарушением хотя бы одного условия:** сменить браузер/отпечаток на **Firefox** (условие 2); сократить число TLS-сессий — **HTTP/2** на сервере (условие 3); увести сайт на IP вне «грязной» подсети (условие 1). Плюс отключить QUIC и держать панель 3x-ui обновлённой.
 - **Это не «сайт в реестре».** Ресурс не заблокирован юридически — ломается лишь сетевое взаимодействие. Поэтому для починки **не нужны обходные средства**, достаточно настроить параметры.
 
 ## На пальцах: почему страдают невиновные
@@ -121,7 +121,7 @@ description: "Почему в июне 2026 легли сайты на Beget, Ti
 **Условие 3 — сократить число TLS-сессий:**
 
 - [ ] **Включить HTTP/2 на сервере** — мультиплексирование сворачивает сотни запросов к каждому домену (origin) в **одно** TLS-соединение, и порог «>3 сессий к одному SNI» не пробивается; на сайте с несколькими поддоменами/CDN это снимает условие 3 по каждому домену в отдельности. Подробный практический разбор этого решения (почему именно **HTTP/2 Only + TLS 1.2**, настройка reverse-proxy на **Caddy**) — в отдельной заметке [[DPI/tspu-http2-tls12-fix|HTTP/2 Only + TLS 1.2 против ТСПУ]].
-- [ ] **Проверить панель 3x-ui (ловушка обновления).** После обновления до ветки `3.x.x` панель вшивает в конфиг ядра Xray `"scMinPostsIntervalMs": "30"`, который сам по себе триггерит ТСПУ на мобильных сетях. Детальный разбор и фикс — в отдельной заметке [[DPI/tspu-3xui-scmininterval-trap|Ловушка обновления 3x-ui]].
+- [ ] **Обновить панель 3x-ui до 3.3.1 или новее, но не искать причину в `scMinPostsIntervalMs`.** В июне 2026 года ходила версия, что строка `"scMinPostsIntervalMs": "30"`, которую писала 3x-ui 3.x, сама включает ТСПУ на мобильных сетях. Проверка по исходному коду в ноябре 2026 года показала, что 30 мс — значение, которое Xray подставляет сам, и удаление строки трафик не меняет; разбор — в заметке [[DPI/tspu-3xui-scmininterval-trap|«Ловушка» 3x-ui со scMinPostsIntervalMs]]. Обновление при этом нужно ради закрытой в 3.3.1 уязвимости.
 
 **Условие 1 — увести сайт из «грязной» подсети:**
 
@@ -168,7 +168,7 @@ description: "Почему в июне 2026 легли сайты на Beget, Ti
 ## 📚 См. также
 
 - [[DPI/tspu-http2-tls12-fix|HTTP/2 Only + TLS 1.2 против ТСПУ]] — практический гайд для владельца сайта по одному из фиксов (условие 3): почему помогает HTTP/2 и контринтуитивный откат на TLS 1.2, настройка Caddy.
-- [[DPI/tspu-3xui-scmininterval-trap|Ловушка обновления 3x-ui (scMinPostsIntervalMs)]] — почему обновление панели Xray до 3.x.x само пробивает условие «частота» и как это починить.
+- [[DPI/tspu-3xui-scmininterval-trap|«Ловушка» 3x-ui со scMinPostsIntervalMs]] — проверка июньской версии про «30» в конфиге: значение по умолчанию Xray, а не признак для ТСПУ.
 - [[DPI/tspu-disable-quic-chrome|Отключение QUIC (HTTP/3) в браузере]] — клиентский приём против таймаутов на UDP-транспорте (отдельная ось проблемы).
 - [[DPI/tspu-h2-h3-fingerprint-hypothesis|Гипотеза: ТСПУ ловит прокси по «вечному HTTP/2»]] — **неверифицированная** догадка о ещё одном поведенческом признаке (xhttp+h3 vs REALITY); эффект подтверждён, механизм — нет.
 - [[VLESS/dpi-tls-june-2026|Как DPI «замораживает» VLESS+REALITY: схема июня 2026]] — детальный разбор того же триггера из трёх условий со стороны обходных средств: uTLS, JA3/JA4, выбор фингерпринта, mux.

diff --git a/xray/xhttp.md b/xray/xhttp.md
@@ -124,7 +124,7 @@ XHTTP — это транспорт уровня приложения (HTTP), а
 | `host` | Значение заголовка `Host` / SNI |
 | `headers` | Дополнительные HTTP-заголовки |
 | `scMaxEachPostBytes` | Макс. размер тела одного upload-POST (по умолчанию 1 000 000) |
-| `scMinPostsIntervalMs` | Мин. пауза между POST (по умолчанию 30 мс) |
+| `scMinPostsIntervalMs` | Мин. пауза между POST (по умолчанию 30 мс; явное «30» в конфиге ничего не меняет, см. [[DPI/tspu-3xui-scmininterval-trap\|«ловушку» 3x-ui]]) |
 | `scMaxBufferedPosts` | Глубина очереди пересборки (по умолчанию 30) |
 | `xPaddingBytes` | Диапазон длины паддинга (по умолчанию 100–1000) |
 | `noGRPCHeader` / `noSSEHeader` | Отключить маскировку под gRPC / SSE |
